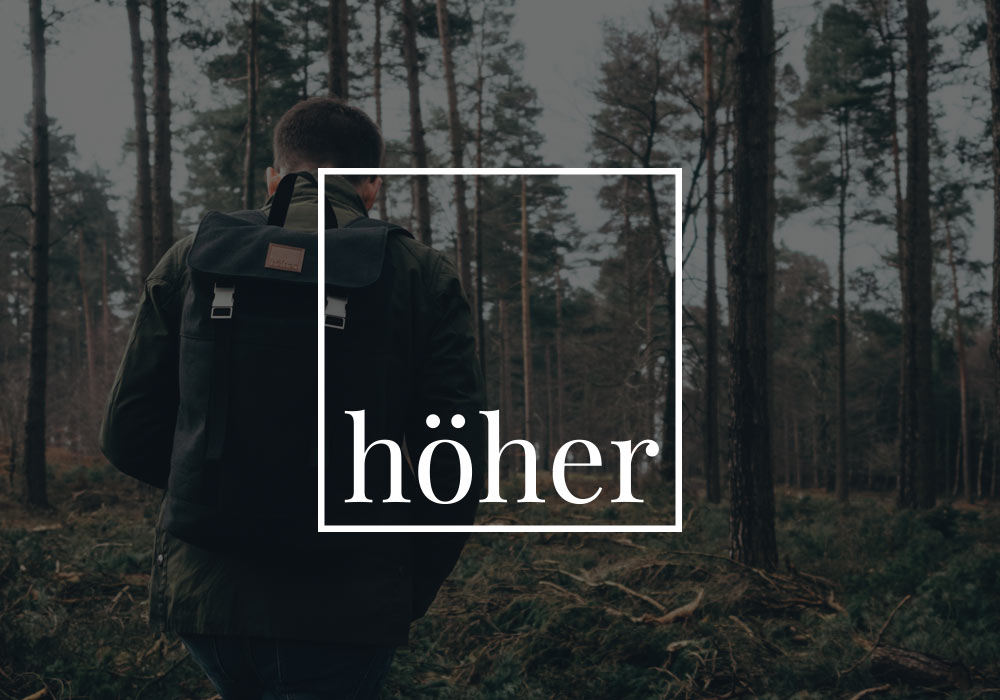
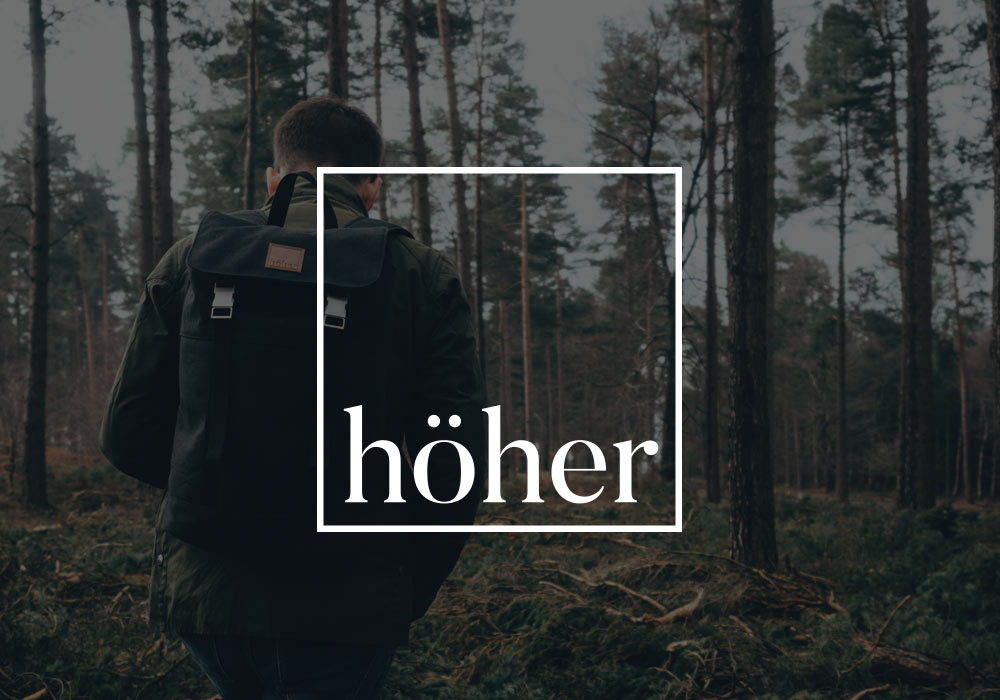
Update serif font

Changed region(s): [[0.341, 0.57, 0.651, 0.72], [0.465, 0.57, 0.496, 0.6], [0.31, 0.24, 0.341, 0.27]]

diff --git a/source/stylesheets/partials/_global.sass b/source/stylesheets/partials/_global.sass
@@ -1,3 +1,9 @@
+@font-face
+  font-family: 'Butler'
+  src: url('/fonts/Butler-Bold.woff2') format('woff2'), url('/fonts/Butler-Bold.woff') format('woff')
+  font-weight: bold
+  font-style: normal
+
 *
   box-sizing: border-box
 

diff --git a/source/stylesheets/partials/_buttons.sass b/source/stylesheets/partials/_buttons.sass
@@ -2,7 +2,7 @@
   font-family: $font-serif
   text-transform: uppercase
   display: inline-block
-  padding: 10px 50px 10px 25px
+  padding: 13px 50px 10px 25px
   position: relative
 
   &:after,

diff --git a/source/stylesheets/modules/_variables.sass b/source/stylesheets/modules/_variables.sass
@@ -24,4 +24,4 @@ $padd-lg: 80px
 $flex-column-margin: 10px
 
 $font-sans: 'Open Sans', sans-serif
-$font-serif: 'Playfair Display', serif
+$font-serif: 'Butler', serif

diff --git a/source/stylesheets/partials/_hero.sass b/source/stylesheets/partials/_hero.sass
@@ -33,6 +33,7 @@
       margin: 10px 0 0
 
     +media-breakpoint-up($bp-m)
+      margin-top: 40px
       display: flex
       li + li
         margin: 0 0 0 15px
